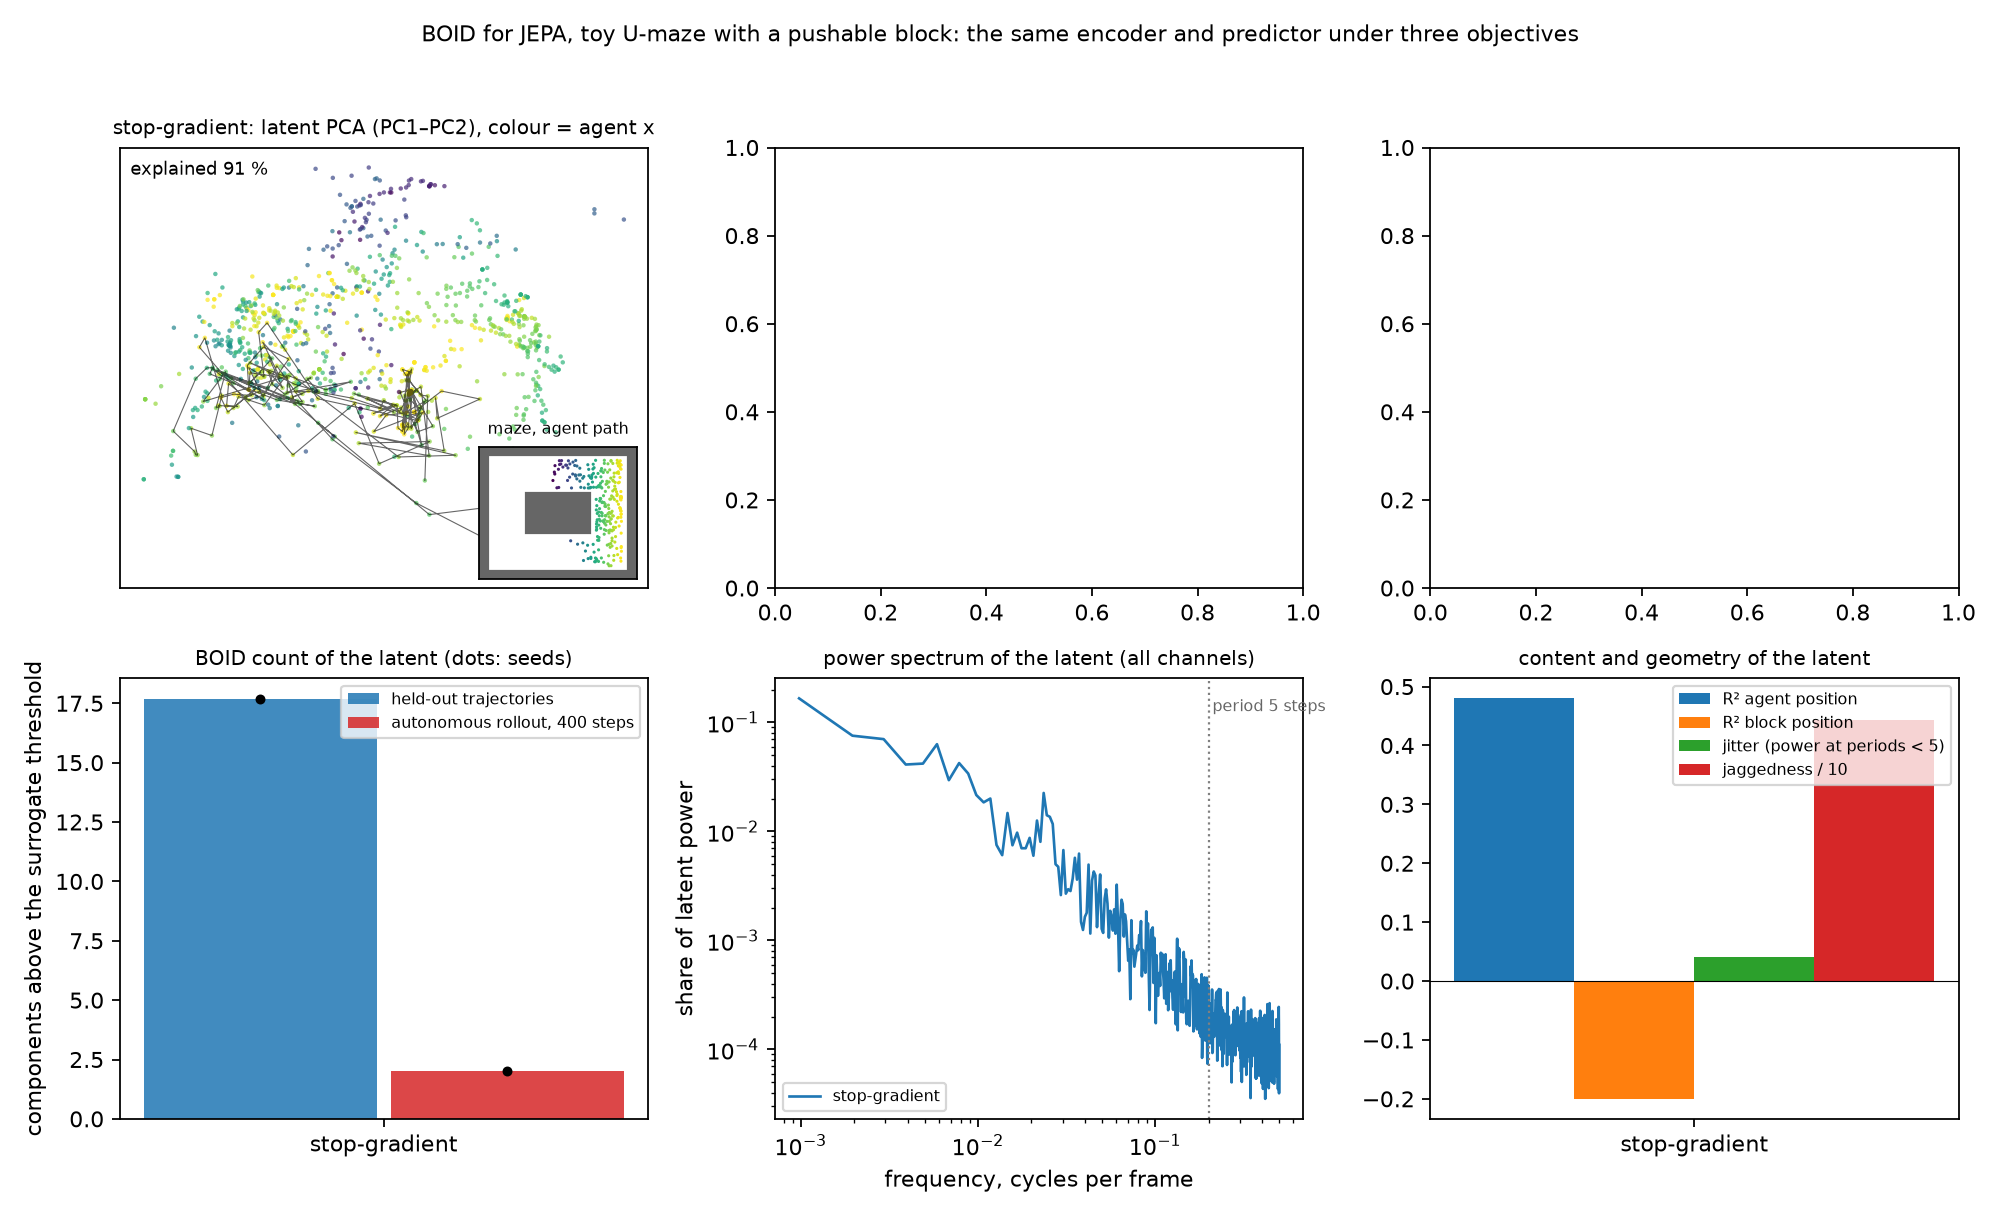
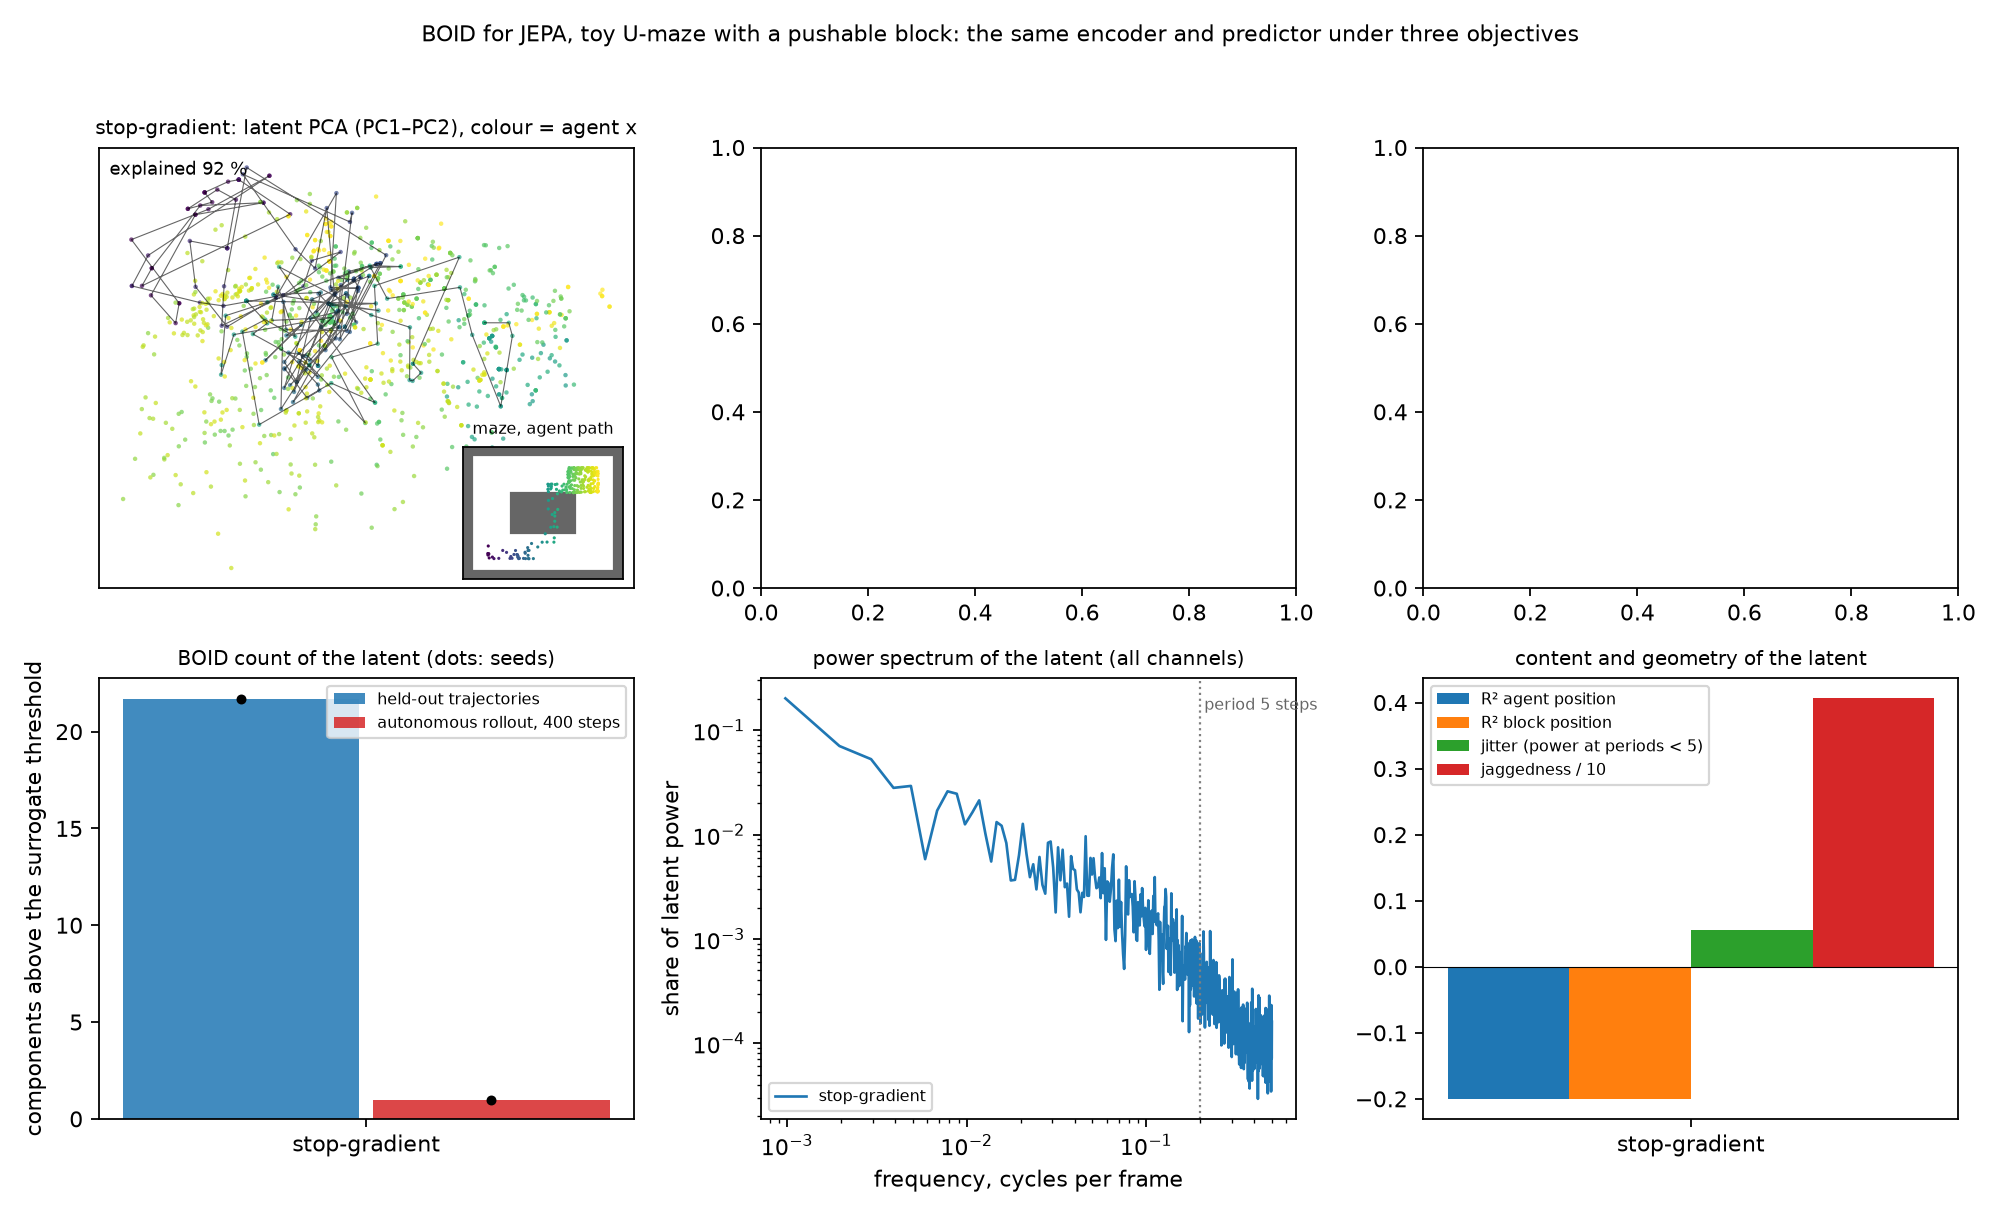
maze2d-medium layout, smooth random driving, cross-validated readout; first numbers for the stop-gradient model and the 3-D latent map with the BOID trace

diff --git a/jepa_boid_toy.py b/jepa_boid_toy.py
@@ -8,36 +8,51 @@ objective, after Ren, Wang, Hoang, Kuang, LeCun (2026, AGL-TR-2026-04):
 Measured on held-out trajectories of the latent z_t: the BOID count (MSSA with permutation surrogates), the poles of the
 leading modes, the share of latent power at periods under five steps (their jitter), the linear readout R^2 of the agent
 and block positions (content), the latent path jaggedness (geometry), and the count on autonomous rollouts of the
-predictor beyond its training horizon.  Usage: python jepa_boid_toy.py [steps] [seeds]"""
+predictor beyond its training horizon.  Usage: python jepa_boid_toy.py [steps] [seeds] [variants, e.g. SG or SG,SVReg,SlowSVReg]"""
 import numpy as np, torch, torch.nn as nn, torch.nn.functional as F, sys, time, json, os
 torch.set_num_threads(4); HERE = os.path.dirname(os.path.abspath(__file__))
 STEPS = int(sys.argv[1]) if len(sys.argv) > 1 else 4000; SEEDS = int(sys.argv[2]) if len(sys.argv) > 2 else 3
+VARIANTS = sys.argv[3].split(",") if len(sys.argv) > 3 else ["SG", "SVReg", "SlowSVReg"]
 IMG, D, T, B = 48, 32, 16, 32; LAMBDA, BETA = 10.0, 0.1; SLOW = D//8
 
 # ----------------------------------------------------------------- environment: U-maze with a pushable block
-WALLS = [(0.0, 0.0, 1.0, 0.06), (0.0, 0.94, 1.0, 0.06), (0.0, 0.0, 0.06, 1.0), (0.94, 0.0, 0.06, 1.0), (0.30, 0.35, 0.40, 0.30)]  # x,y,w,h; central block = the U's core
-def blocked(p, r=0.04):
+MAZE = ["11111111",
+        "10011001",
+        "10010001",
+        "11000111",
+        "10010001",
+        "10100101",
+        "10001001",
+        "11111111"]                                                                   # maze2d-medium layout (Fu et al. 2020), 8x8 cells
+CELL = 1.0/len(MAZE)
+WALLS = [(c*CELL, (len(MAZE)-1-r)*CELL, CELL, CELL) for r, row in enumerate(MAZE) for c, ch in enumerate(row) if ch == "1"]   # x,y,w,h
+def blocked(p, r=0.03):
     for (x, y, w, h) in WALLS:
         if x - r < p[0] < x + w + r and y - r < p[1] < y + h + r: return True
     return False
 def free_point(rng):
     while True:
-        p = rng.uniform(0.08, 0.92, 2)
-        if not blocked(p, 0.06): return p
-def rollout(N, rng, step=0.05, actions=None):
-    """uniform-random actions (velocity commands), five env steps per frame; the block moves only when pushed"""
+        p = rng.uniform(0.15, 0.85, 2)
+        if not blocked(p, 0.045): return p
+def rollout(N, rng, step=0.045, actions=None):
+    """smooth random driving (persistent heading, a new heading when stuck), five env steps per frame;
+    the block moves only when pushed"""
     agent = free_point(rng); block = free_point(rng)
     while np.linalg.norm(block - agent) < 0.2: block = free_point(rng)
-    A, P, Q = [], [], []
+    A, P, Q = [], [], []; a = rng.uniform(-1, 1, 2)
     for n in range(N):
-        a = actions[n] if actions is not None else rng.uniform(-1, 1, 2)
+        if actions is not None: a = actions[n]
+        else: a = np.clip(0.85*a + 0.5*rng.standard_normal(2), -1, 1)
+        stuck = 0
         for _ in range(5):
             new = agent + step/5*a
             if not blocked(new): agent = new
+            else: stuck += 1
             d = block - agent
-            if np.linalg.norm(d) < 0.09:                                     # contact: push the block away from the agent
-                nb = block + 0.6*(step/5)*(d/ (np.linalg.norm(d)+1e-9))*np.linalg.norm(a)
-                if not blocked(nb, 0.05): block = nb
+            if np.linalg.norm(d) < 0.07:                                     # contact: push the block away from the agent
+                nb = block + 0.6*(step/5)*(d/(np.linalg.norm(d)+1e-9))*np.linalg.norm(a)
+                if not blocked(nb, 0.035): block = nb
+        if stuck >= 3 and actions is None: a = rng.uniform(-1, 1, 2)
         A.append(a.copy()); P.append(agent.copy()); Q.append(block.copy())
     return np.array(A, np.float32), np.array(P, np.float32), np.array(Q, np.float32)
 def render(P, Q):
@@ -46,8 +61,8 @@ def render(P, Q):
     for (x, y, w, h) in WALLS: wall[(xx >= x) & (xx <= x+w) & (yy >= y) & (yy <= y+h)] = 0.35
     for i in range(len(P)):
         f = wall.copy()
-        f += np.exp(-(((xx-P[i, 0])**2 + (yy-P[i, 1])**2))/(2*0.03**2))             # agent: bright blob
-        f += 0.6*np.exp(-(((xx-Q[i, 0])**2 + (yy-Q[i, 1])**2))/(2*0.035**2))        # block: dimmer blob
+        f += np.exp(-(((xx-P[i, 0])**2 + (yy-P[i, 1])**2))/(2*0.022**2))            # agent: bright blob
+        f += 0.6*np.exp(-(((xx-Q[i, 0])**2 + (yy-Q[i, 1])**2))/(2*0.026**2))        # block: dimmer blob
         frames[i] = np.clip(f, 0, 1)
     return frames
 
@@ -117,10 +132,16 @@ def jaggedness(Z):
     """path length of the latent route divided by the length of its 10-step-smoothed version (1 = smooth)"""
     d = np.linalg.norm(np.diff(Z, axis=1), axis=0).sum(); k = 10; S = np.stack([np.convolve(z, np.ones(k)/k, mode="valid") for z in Z]); ds = np.linalg.norm(np.diff(S, axis=1), axis=0).sum()
     return float(d/max(ds, 1e-9))
-def readout_r2(Z, Y):
-    """linear readout of positions from the latent, R^2 on the second half after fitting on the first"""
-    n = Z.shape[1]//2; Xa = np.c_[Z.T, np.ones(Z.shape[1])]; W = np.linalg.lstsq(Xa[:n], Y[:n], rcond=None)[0]; pred = Xa[n:] @ W
-    return float(1 - ((Y[n:] - pred)**2).sum()/((Y[n:] - Y[n:].mean(0))**2).sum())
+def readout_r2(Z, Y, lam=1.0, k=5):
+    """linear readout of positions from the standardised latent: ridge regression, 5-fold cross-validated R^2;
+    undefined (nan) when the target barely moves (e.g. a block that was never pushed)"""
+    if Y.var(0).sum() < 1e-4: return float("nan")
+    Zs = (Z - Z.mean(1, keepdims=True))/(Z.std(1, keepdims=True) + 1e-8); X = np.c_[Zs.T, np.ones(Z.shape[1])]
+    idx = np.arange(len(Y)); ss_res = ss_tot = 0.0
+    for f in np.array_split(idx, k):
+        tr = np.setdiff1d(idx, f); A = X[tr]; W = np.linalg.solve(A.T @ A + lam*np.eye(A.shape[1]), A.T @ Y[tr]); pred = X[f] @ W
+        ss_res += ((Y[f] - pred)**2).sum(); ss_tot += ((Y[f] - Y.mean(0))**2).sum()
+    return float(1 - ss_res/ss_tot)
 @torch.no_grad()
 def latents(enc, frames): return enc(torch.tensor(frames)[:, None]).numpy().T             # D x N
 @torch.no_grad()
@@ -137,7 +158,7 @@ if __name__ == "__main__":
     held = [rollout(1024, np.random.default_rng(100+k)) for k in range(3)]; Xh = [render(P, Q) for (_, P, Q) in held]
     print(f"data: 5000 training frames, 3 held-out runs of 1024 frames; block moved in {np.mean([np.linalg.norm(np.diff(Q, axis=0), axis=1).sum() > 0.05 for (_, _, Q) in held]):.0%} of runs ({time.time()-t0:.0f} s)")
     results = {}
-    for variant in ("SG", "SVReg", "SlowSVReg"):
+    for variant in VARIANTS:
         rows = []
         for seed in range(SEEDS):
             enc, pred = train(variant, X_tr, A_tr, seed)

diff --git a/jepa_boid_3d.py b/jepa_boid_3d.py
@@ -1,0 +1,46 @@
+"""3-D latent map of the toy stop-gradient JEPA in the style of Ren et al. (white background, PC1–PC3, colour = position),
+joined with the BOID regimes: the sliding-window count along the run and into the autonomous rollout.
+Writes jepa_boid_latent_3d.png and the rotating clip jepa_boid_latent_3d.mp4.  Usage: python jepa_boid_3d.py [latents.npz]"""
+import numpy as np, os, sys, matplotlib
+matplotlib.use("Agg"); import matplotlib.pyplot as plt
+HERE = os.path.dirname(os.path.abspath(__file__)); sys.path.insert(0, HERE)
+path = sys.argv[1] if len(sys.argv) > 1 else os.path.join(HERE, "latents_SG_seed0.npz"); sys.argv = [sys.argv[0]]
+import jepa_boid_toy as J
+d = np.load(path); Z, P, Zi = d["Z0"], d["P0"], d["Zimag0"][:, :300]          # rollout truncated to 300 steps (it leaves the data region later)
+mu, sd = Z.mean(1, keepdims=True), Z.std(1, keepdims=True) + 1e-8; Zs = (Z - mu)/sd; Zis = (Zi - mu)/sd
+U, S, Vt = np.linalg.svd(Zs, full_matrices=False); W = U[:, :3]; pc = W.T @ Zs; pci = W.T @ Zis; ev = S**2/(S**2).sum()
+WIN, STEP = 256, 32; rng = np.random.default_rng(0)
+def sliding(Zx, win=WIN, step=STEP):
+    return np.array([(s + win//2, J.boid_count(Zx[:, s:s+win], L=16, Bsur=30, rng=rng)[0]) for s in range(0, Zx.shape[1] - win + 1, step)])
+cnt_real = sliding(Zs); cnt_roll = sliding(Zis, win=200, step=50)
+print("real run counts:", cnt_real[:, 1].tolist()); print("rollout counts:", cnt_roll[:, 1].tolist())
+# colour = position: hue by x, lightness by y (a 2-D colour map, as in their top-down panel)
+def pos_colours(P):
+    hx = (P[:, 0] - P[:, 0].min())/(np.ptp(P[:, 0]) + 1e-9); ly = (P[:, 1] - P[:, 1].min())/(np.ptp(P[:, 1]) + 1e-9)
+    base = plt.cm.hsv(hx*0.85)[:, :3]; return np.clip(base*(0.45 + 0.55*ly[:, None]) + (1 - ly[:, None])*0.25, 0, 1)
+col = pos_colours(P); PINK = "#d81b60"
+def draw(fig, azim, elev=24):
+    ax = fig.add_axes([0.0, 0.03, 0.56, 0.94], projection="3d"); ax.view_init(elev=elev, azim=azim)
+    ax.scatter(pc[0], pc[1], pc[2], s=6, c=col, alpha=0.9, lw=0, depthshade=False); ax.plot(pc[0], pc[1], pc[2], color="0.25", lw=0.3, alpha=0.4)
+    ax.set_xlabel(f"PC1 ({100*ev[0]:.0f}%)", labelpad=-6); ax.set_ylabel(f"PC2 ({100*ev[1]:.0f}%)", labelpad=-6); ax.set_zlabel(f"PC3 ({100*ev[2]:.0f}%)", labelpad=-6); ax.tick_params(labelsize=6, pad=-3)
+    ax.set_title("stop-gradient latent of a held-out run (PC1–PC3), colour = agent position", fontsize=10)
+    axr = fig.add_axes([0.01, 0.02, 0.20, 0.26], projection="3d"); axr.patch.set_alpha(0); axr.view_init(elev=elev, azim=azim)
+    axr.plot(pci[0], pci[1], pci[2], color=PINK, lw=1.6); axr.scatter([pci[0, 0]], [pci[1, 0]], [pci[2, 0]], s=35, color="k", depthshade=False)
+    axr.set_xticks([]); axr.set_yticks([]); axr.set_zticks([]); axr.set_title("predictor on its own,\n300 steps (own scale)", fontsize=8, color=PINK, pad=-6)
+    ins = fig.add_axes([0.60, 0.56, 0.38, 0.40]); ins.set_xlim(0, 1); ins.set_ylim(0, 1); ins.set_xticks([]); ins.set_yticks([]); ins.set_facecolor("white")
+    for (x, y, w, h) in J.WALLS: ins.add_patch(plt.Rectangle((x, y), w, h, color="0.25"))
+    ins.scatter(P[:, 0], P[:, 1], s=5, c=col, lw=0); ins.set_title("top-down maze, agent path, colour = position", fontsize=9)
+    axc = fig.add_axes([0.64, 0.15, 0.34, 0.35])
+    axc.plot(cnt_real[:, 0], cnt_real[:, 1], color="C0", lw=2.2, marker="o", ms=4, label="with input: held-out trajectory")
+    axc.plot(Z.shape[1] + cnt_roll[:, 0], cnt_roll[:, 1], color=PINK, lw=2.2, marker="o", ms=4, label="no input: predictor on its own")
+    axc.axvline(Z.shape[1], color="0.5", ls=":", lw=1); axc.text(Z.shape[1] + 10, cnt_real[:, 1].max() + 0.6, "rollout starts", fontsize=8, color="0.4")
+    axc.set_ylim(0, cnt_real[:, 1].max() + 3); axc.set_xlabel("frame"); axc.set_ylabel("BOID: components above threshold"); axc.legend(fontsize=8, loc="upper left")
+    axc.set_title("how BOID changes along the run (256-frame windows)", fontsize=10); axc.grid(alpha=0.3)
+    fig.text(0.64, 0.045, f"with input the latent sustains {int(np.median(cnt_real[:, 1]))} components (median; range {int(cnt_real[:, 1].min())}–{int(cnt_real[:, 1].max())});\nwithout input it falls to {int(np.median(cnt_roll[:, 1]))}.   github.com/aicumene/BOID-JEPA", fontsize=8.5, color="0.3", va="center")
+fig = plt.figure(figsize=(12.8, 7.2), dpi=150); draw(fig, azim=-55); fig.savefig(os.path.join(HERE, "jepa_boid_latent_3d.png"), facecolor="white"); plt.close(fig); print("png saved")
+import imageio.v2 as imageio
+wr = imageio.get_writer(os.path.join(HERE, "jepa_boid_latent_3d.mp4"), fps=30, codec="libx264", quality=8, pixelformat="yuv420p", macro_block_size=None); n = 360
+for i in range(n):
+    fig = plt.figure(figsize=(12.8, 7.2), dpi=100); draw(fig, azim=-55 + 360*i/n, elev=24 + 6*np.sin(2*np.pi*i/n)); fig.canvas.draw()
+    wr.append_data(np.asarray(fig.canvas.buffer_rgba())[..., :3].copy()); plt.close(fig)
+wr.close(); print("mp4 saved")

diff --git a/README.md b/README.md
@@ -18,18 +18,22 @@ The code of Ren et al. is not released, so `jepa_boid_toy.py` builds a toy copy 
 
 Measured on held-out trajectories: the BOID count (components above the 95 % permutation-surrogate threshold), the poles of the leading modes, the share of latent power at periods under five frames (jitter), the jaggedness of the latent path, the linear readout R² of the agent and block positions, and the count on a 400-step autonomous rollout of the predictor with the actions held at zero.
 
-## First numbers (stop-gradient, seed 0, three held-out runs)
+## First numbers (stop-gradient, maze2d-medium layout, three held-out runs of 1024 frames)
 
-| quantity | value |
-|---|---|
-| components above the surrogate threshold | 16, 19, 18 |
-| components on the autonomous rollout | 2, 2, 2 |
-| jitter (power at periods < 5 frames) | 0.041 |
-| jaggedness of the latent path (1 = smooth) | 4.43 |
-| readout R², agent position | 0.48 |
-| readout R², block position | below 0 |
+| quantity | run 0 | run 1 | run 2 |
+|---|---|---|---|
+| components above the surrogate threshold (BOID count) | 23 | 22 | 20 |
+| count in 256-frame windows along the run | 11 → 19 (rises as the agent leaves the corridor for the rooms) | | |
+| components on a 300-step autonomous rollout | 2 | 2 | 2 |
+| jitter (share of power at periods < 5 frames) | 0.079 | 0.044 | 0.046 |
+| jaggedness of the latent path (1 = smooth; Ren et al. report 5.3 for SG) | 4.15 | 4.22 | 3.82 |
+| readout R², agent position (ridge, 5-fold CV) | 0.16 | 0.62 | 0.58 |
+| readout R², block position | 0.51 | not pushed | 0.74 |
+| leading periods, frames | 123, 55, 19, 15 | 1184, 409, 238, 31 | 1198, 274, 68, 28 |
 
-We stopped here on purpose: the two regularized regimes should be measured on the released model, where the question is real, rather than on a toy.
+`jepa_boid_latent_3d.png` and `jepa_boid_latent_3d.mp4`: the latent in PC1–PC3 coloured by the agent's position, the maze with the same colours, and the BOID count along the run and into the rollout. The readout is a cross-validated ridge regression on the standardised latent (a split-halves readout fails on these runs because the agent visits different rooms in the two halves). An earlier U-maze version of the toy (`run_umaze/` in the working folder) gave 16–19 components, jaggedness 4.4 and the same collapse to 2 on the rollout.
+
+We stopped at the stop-gradient model on purpose: the two regularized regimes should be measured on the released model, where the question is real, rather than on a toy.
 
 ## Run
 
@@ -37,11 +41,12 @@ We stopped here on purpose: the two regularized regimes should be measured on th
 pip install numpy torch matplotlib
 python jepa_boid_toy.py 3000 3      # steps, seeds; writes jepa_boid_results.json, latents_*.npz, model_*.pt
 python jepa_boid_figure.py          # latent maps, counts, spectra, readouts
+python jepa_boid_3d.py              # 3-D latent map with the BOID trace, PNG and rotating MP4
 ```
 
 ## References
 
-- Ren M., Wang Y., Hoang C., Kuang Y., LeCun Y. (2026). The content–geometry tradeoff in world models: when JEPA learns latent maps. AGL-TR-2026-04. https://doi.org/10.5281/zenodo.24356797
+- Ren M., Wang Y., Hoang C., Kuang Y., LeCun Y. (2026). The content–geometry tradeoff in world models: when JEPA learns latent maps. AGL-TR-2026-04. https://doi.org/10.5281/zenodo.24356797 · alphaXiv: https://www.alphaxiv.org/abs/2611.jepa-latent-maps-content-geometry · project page: https://agenticlearning.ai/content-geometry-tradeoff/
 - Bernadotte A., Menshikov I. (2026). From Brain Dynamics to Strong Artificial Intelligence: Learning Creates Functional Regime Switching. Aicumene Preprint 2026.045v2. https://doi.org/10.13140/RG.2.2.22357.59364 · https://research.aicumene.com/papers/BOID-JEPA/
 - Bernadotte A., Menshikov I. (2026). Multichannel Singular Spectrum Analysis: Counting Oscillatory Modes and Recovering Their Spatial Loadings. SSRN 7693202. https://doi.org/10.2139/ssrn.7693202 · code https://github.com/aicumene/MSSA
 - Bernadotte A., Menshikov I. (2026). Brain Oscillator Intrinsic Dimension Marks Consciousness, Recovery Mode, and Failed Downshifting in Coma. SSRN 7667278. https://doi.org/10.2139/ssrn.7667278
